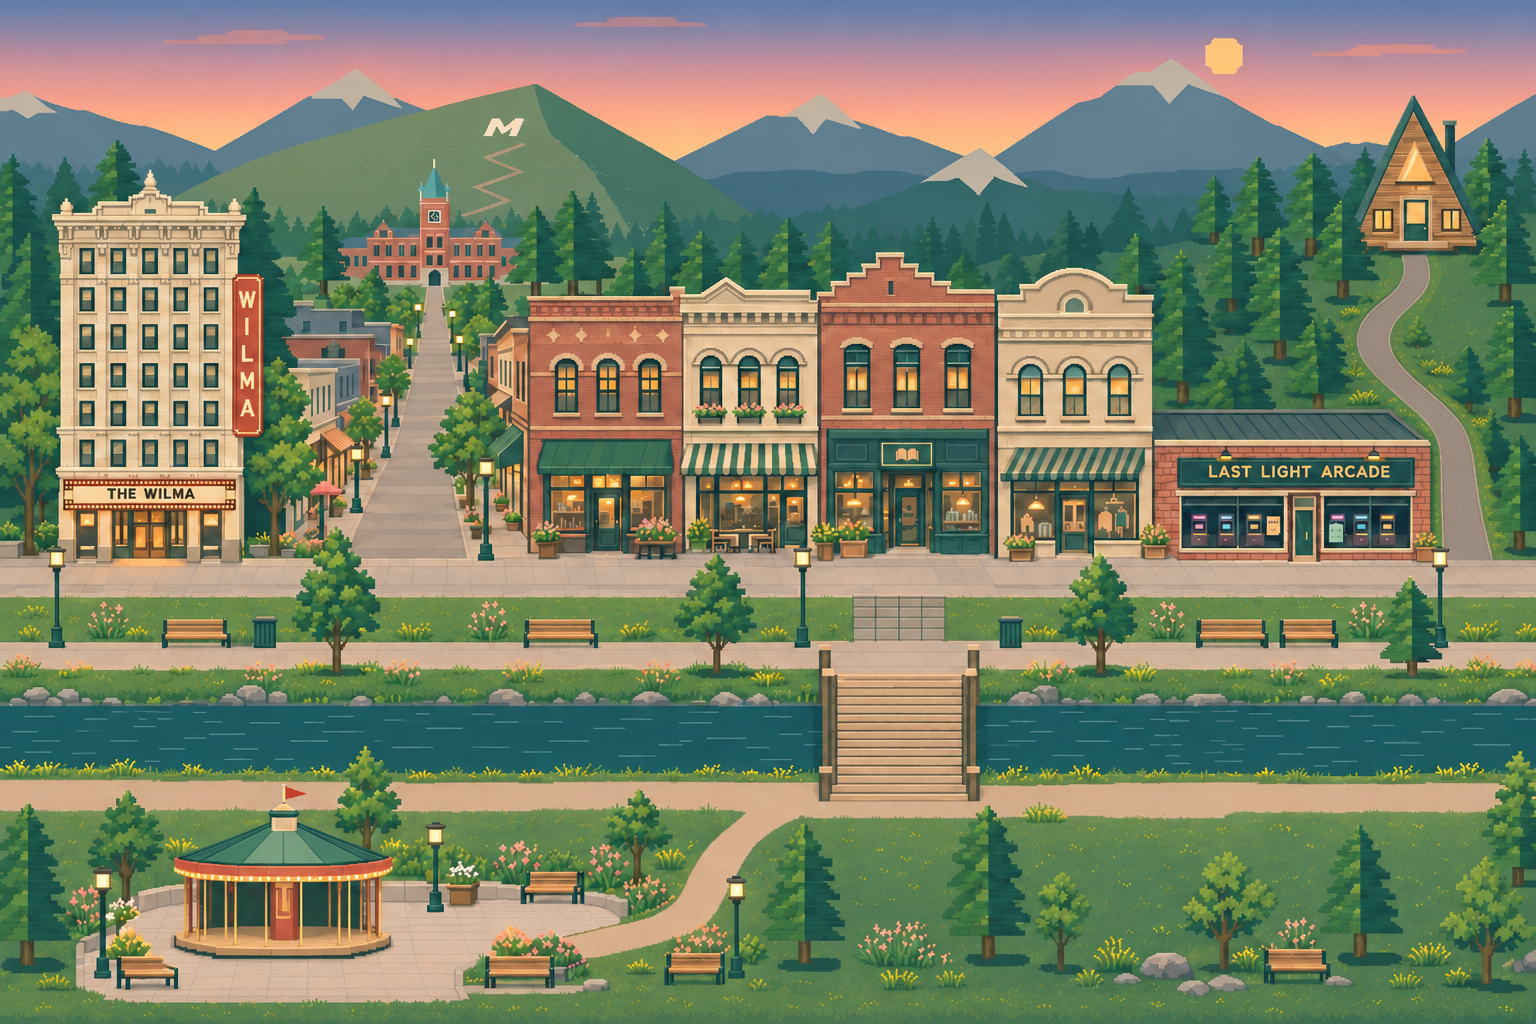
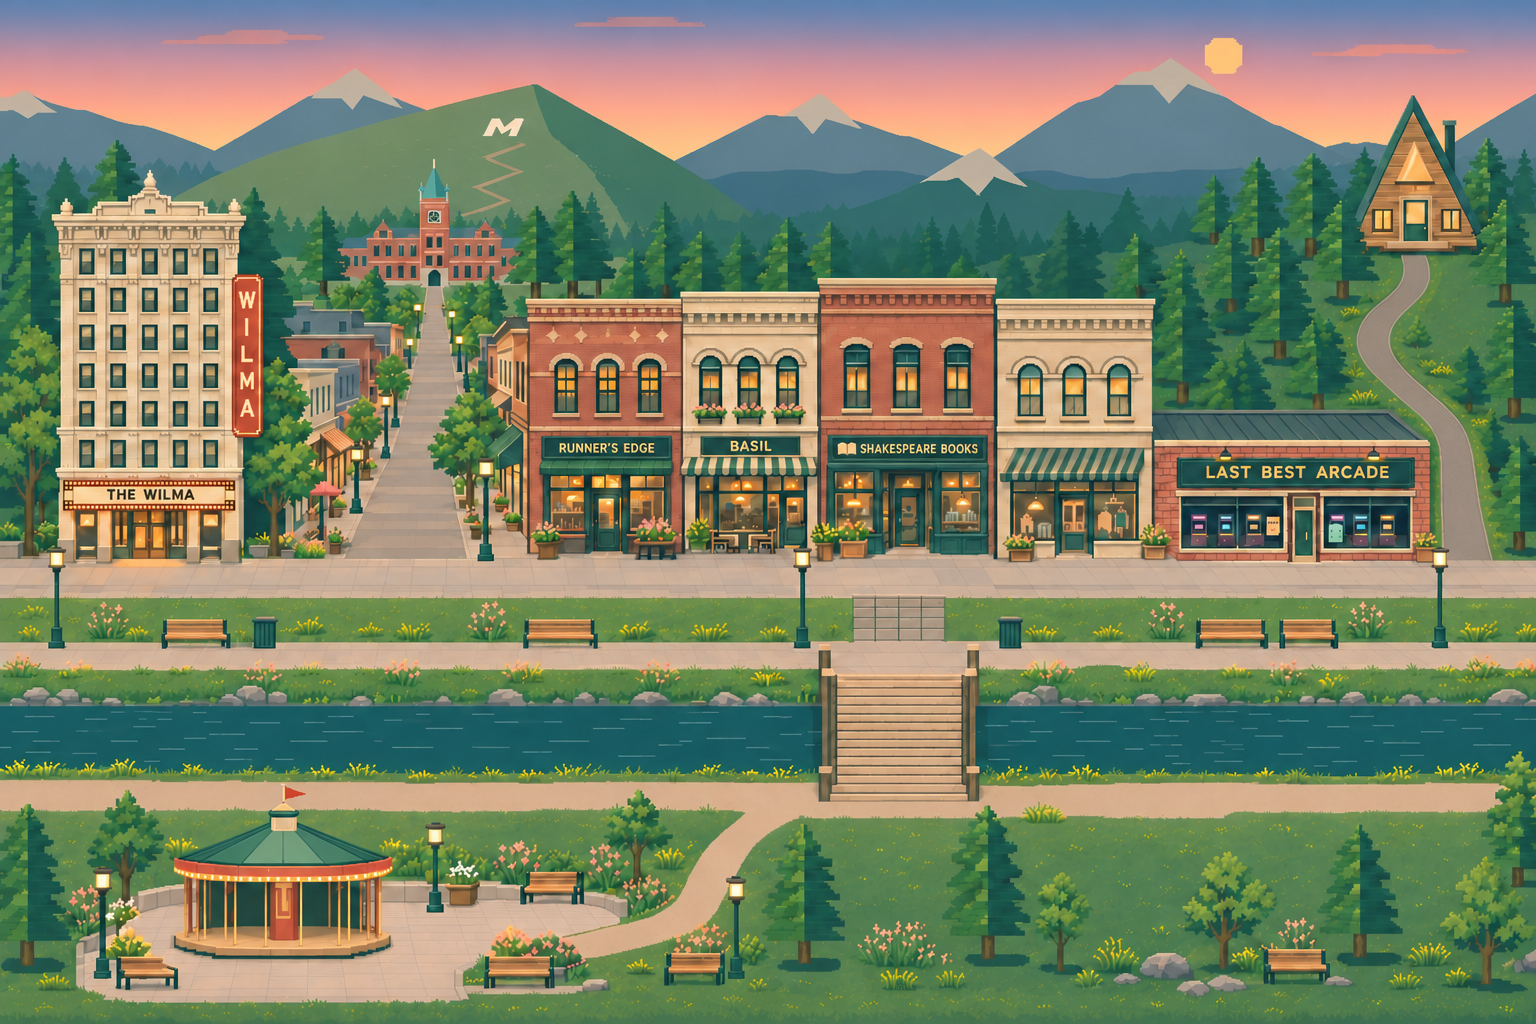
clean up main street

diff --git a/eightbit/portfolio.js b/eightbit/portfolio.js
@@ -13,8 +13,8 @@ normalURL.searchParams.delete('mode'); normalURL.hash = '';
 const root = document.createElement('div'); root.id = 'eightbit';
 root.innerHTML = `
   <a class="skip-link" href="#directory">skip to the projects</a>
-  <header class="game-header"><a class="brand" href="?mode=8bit" aria-label="Last light arcade home"><span class="brand-icon">✦</span><span>LAST LIGHT<small>TAYLOR DORSETT'S LITTLE CORNER OF THE INTERNET</small></span></a><nav aria-label="Quick navigation"><button data-ui="directory">projects <span>08</span></button><button data-ui="map">map <kbd>M</kbd></button><button data-ui="about">about</button><button data-ui="contact">contact</button><button data-ui="sound" aria-pressed="false">sound off</button><a class="normal-site">normal site ↗</a></nav></header>
-  <main class="game-stage" aria-label="Last light arcade">
+  <header class="game-header"><a class="brand" href="?mode=8bit" aria-label="Last best arcade home"><span class="brand-icon">✦</span><span>LAST BEST<small>TAYLOR DORSETT'S LITTLE CORNER OF THE INTERNET</small></span></a><nav aria-label="Quick navigation"><button data-ui="directory">projects <span>08</span></button><button data-ui="map">map <kbd>M</kbd></button><button data-ui="about">about</button><button data-ui="contact">contact</button><button data-ui="sound" aria-pressed="false">sound off</button><a class="normal-site">normal site ↗</a></nav></header>
+  <main class="game-stage" aria-label="Last best arcade">
     <canvas class="world-canvas" tabindex="0" aria-label="Explore the town. Arrow keys or WASD to walk. E or Enter to interact. Click a place to walk there, or use the map and projects menu."></canvas>
     <div class="scene-shade" aria-hidden="true"></div>
     <div class="place-label"><span class="place-dot"></span><div><h1 class="place-name">main street</h1><p class="place-subtitle">missoula, montana · just before sunset</p></div></div>
@@ -30,7 +30,7 @@ root.innerHTML = `
   <dialog class="game-dialog" aria-labelledby="dialog-title"><div class="dialog-top"><span class="dialog-tag"></span><button class="close-dialog" aria-label="Close dialog">✕</button></div><div class="dialog-content"></div></dialog>`;
 root.querySelector('.normal-site').href = normalURL.href;
 document.body.replaceChildren(root); document.documentElement.classList.add('eightbit-mode');
-document.title = 'Last light arcade | Taylor Dorsett';
+document.title = 'Last best arcade | Taylor Dorsett';
 const canvas = root.querySelector('.world-canvas'), dialog = root.querySelector('dialog');
 let postcardPose = 'hello';
 let activeDemo;
@@ -121,7 +121,7 @@ function directory() {
 }
 
 function map() {
-  openDialog('A VERY SMALL TOWN', 'where to?', `<p class="dialog-lead">take a shortcut. there’s no wrong way to explore.</p><div class="map-choices">${[['town','01','main street','the river, the mountains and a little fresh air.'],['arcade','02','last light arcade','eight projects. find your next side quest.'],['cabin','03','home base','a bit about me. meet your companion.']].map(([id,n,title,copy]) => `<button data-room="${id}"><span>${n}</span><strong>${title}</strong><small>${copy}</small><b>${world.id === id ? 'YOU ARE HERE' : 'GO HERE ↗'}</b></button>`).join('')}</div>${progress.pizza === 'delivered' ? '<button class="secondary" data-room="rooftop">the rooftop is open ↑</button>' : '<p class="small-note">there might be a rooftop. ask about the pizza.</p>'}<div class="dialog-actions"><button class="secondary" data-ui="about">about taylor</button><button class="secondary" data-ui="work">work history</button><button class="secondary" data-ui="contact">say hello</button></div>`);
+  openDialog('A VERY SMALL TOWN', 'where to?', `<p class="dialog-lead">take a shortcut. there’s no wrong way to explore.</p><div class="map-choices">${[['town','01','main street','the river, the mountains and a little fresh air.'],['arcade','02','last best arcade','eight projects. find your next side quest.'],['cabin','03','home base','a bit about me. meet your companion.']].map(([id,n,title,copy]) => `<button data-room="${id}"><span>${n}</span><strong>${title}</strong><small>${copy}</small><b>${world.id === id ? 'YOU ARE HERE' : 'GO HERE ↗'}</b></button>`).join('')}</div>${progress.pizza === 'delivered' ? '<button class="secondary" data-room="rooftop">the rooftop is open ↑</button>' : '<p class="small-note">there might be a rooftop. ask about the pizza.</p>'}<div class="dialog-actions"><button class="secondary" data-ui="about">about taylor</button><button class="secondary" data-ui="work">work history</button><button class="secondary" data-ui="contact">say hello</button></div>`);
 }
 
 function choosePet() {
@@ -177,7 +177,7 @@ function photo() {
   if (progress.stamps.length !== 8) {
     openDialog('THE PHOTO BOOTH', 'a little souvenir.', `<p class="dialog-lead">collect all eight project stamps and the photo booth is yours. you’ve found ${progress.stamps.length} so far.</p><button class="primary" data-ui="directory">find the other machines →</button>`); return;
   }
-  openDialog('THANKS FOR STOPPING BY', 'you & your little buddy.', '<p class="dialog-lead">a postcard from last light arcade. a little something to take home.</p><div class="dialog-actions"><button class="secondary" data-pose="hello">hello</button><button class="secondary" data-pose="pizza">pizza break</button><button class="secondary" data-pose="view">mountain view</button></div><div class="postcard-preview"></div><button class="primary" data-ui="download">save your postcard ↓</button>');
+  openDialog('THANKS FOR STOPPING BY', 'you & your little buddy.', '<p class="dialog-lead">a postcard from last best arcade. a little something to take home.</p><div class="dialog-actions"><button class="secondary" data-pose="hello">hello</button><button class="secondary" data-pose="pizza">pizza break</button><button class="secondary" data-pose="view">mountain view</button></div><div class="postcard-preview"></div><button class="primary" data-ui="download">save your postcard ↓</button>');
   const postcard = world.postcard(postcardPose); postcard.setAttribute('role', 'img'); postcard.setAttribute('aria-label', 'Taylor and your pet on the rooftop, with the mountains behind them'); root.querySelector('.postcard-preview').append(postcard);
 }
 

diff --git a/eightbit/scenes.js b/eightbit/scenes.js
@@ -9,7 +9,7 @@ export const scenes = {
     points: [
       point('carousel', 'the carousel', 424, 944, 'carousel', { hit: [172,812,222,145] }),
       point('wilma', 'outside the Wilma', 144, 576, 'wilma', { hit: [52,174,211,386] }),
-      point('arcade', 'enter the arcade', 1304, 576, 'room:arcade', { sign: 'LAST LIGHT ARCADE', hint: 'eight projects. one room.', hit: [1154,410,280,150] }),
+      point('arcade', 'enter the arcade', 1304, 576, 'room:arcade', { sign: 'LAST BEST ARCADE', hint: 'eight projects. one room.', hit: [1154,410,280,150] }),
       point('cabin', 'visit the cabin', 1416, 264, 'room:cabin', { sign: 'HOME BASE', hit: [1356,92,122,162] }),
       point('mailbox', 'say hello', 1008, 656, 'contact', { hit: [998,612,28,34] }),
       point('bench', 'talk to the neighbor', 560, 656, 'delivery', { hit: [520,605,80,42] }),
@@ -19,7 +19,7 @@ export const scenes = {
     ],
   },
   arcade: {
-    name: 'last light arcade', subtitle: 'quarters in. real world out.', width: 1024, height: 832,
+    name: 'last best arcade', subtitle: 'quarters in. real world out.', width: 1024, height: 832,
     spawn: { x: 512, y: 736 }, bounds: [176, 336, 848, 784],
     obstacles: [[216, 344, 96, 128], [376, 344, 96, 128], [536, 344, 96, 128], [696, 344, 96, 128], [216, 520, 96, 128], [352, 584, 128, 64], [536, 520, 96, 128], [696, 520, 96, 128], [184, 704, 80, 64], [320, 704, 48, 48], [776, 704, 72, 64]],
     points: [
@@ -77,7 +77,9 @@ export function findPath(scene, from, to) {
     }
     for (const [dx, dy] of [[0, -1], [1, 0], [0, 1], [-1, 0]]) {
       const next = [current[0] + dx, current[1] + dy];
-      if (!parents.has(key(next)) && isWalkable(scene, next[0] * cell, next[1] * cell)) { parents.set(key(next), current); queue.push(next); }
+      const clear = [0, .25, .5, .75, 1].every(t => isWalkable(scene,
+        (current[0] + dx * t) * cell, (current[1] + dy * t) * cell));
+      if (!parents.has(key(next)) && clear) { parents.set(key(next), current); queue.push(next); }
     }
   }
   return [];

diff --git a/eightbit/town-view.js b/eightbit/town-view.js
@@ -1,12 +1,14 @@
 import { box, polygon, person, pet, text, glow } from './art.js';
 import { daylight, paintSky } from './daylight.js';
 import { drawResident } from './residents.js';
-import { trailActors } from './trail-visitors.js';
+import { trailActors, trailVisitors } from './trail-visitors.js';
 import { drawBike } from './bikes.js';
 import { horse, carouselHorses } from './carousel.js';
 import { campusActors, campusScale } from './campus-life.js';
 import { scoutActors } from './scout.js';
 import { grazer } from './wildlife.js';
+import { riverTree } from './town-trees.js';
+import { riverTrees, treeOpacity } from './depth.js';
 import { townLayout } from './town-layout.js';
 
 let painting;
@@ -98,6 +100,11 @@ export function drawTown(world,time) {
   for(const resident of world.residents.filter(r=>r.room==='town'&&!r.hidden&&!r.home)) actors.push({y:resident.y,draw:()=>drawResident(ctx,resident,moment,reduced)});
   actors.push({y:companion.y,draw:()=>pet(ctx,companion.x,companion.y,progress.pet,reduced?0:moment,false,.75*campusScale(companion.x,companion.y),companion.direction)});
   actors.push({y:player.y,draw:()=>person(ctx,player.x,player.y,world.direction,world.walking&&!reduced,moment,progress.pizza==='carrying',.9*campusScale(player.x,player.y))});
+  const visible = [player, companion, ...trailVisitors(moment, reduced, townLayout), ...world.residents.filter(r => r.room === 'town' && !r.home)];
+  for (const [x, y, size] of riverTrees) actors.push({ y, draw: () => {
+    ctx.save(); ctx.globalAlpha = treeOpacity([x, y, size], visible);
+    riverTree(ctx, x, y, size, x === 1490); ctx.restore();
+  }});
   actors.sort((a,b)=>a.y-b.y).forEach(a=>a.draw());
   if(progress.pizza==='delivered') { box(ctx,543,623,24,5,'#e9ba79');text(ctx,'THANKS!',552,592,8,'#f1d8a7'); }
   if(world.target&&world.path.length) {const {x,y}=world.target;box(ctx,x-5,y,10,2,'#efdbab');box(ctx,x,y-5,2,10,'#efdbab');}

diff --git a/eightbit/town-trees.js b/eightbit/town-trees.js
@@ -1,0 +1,22 @@
+import { box, polygon, tree } from './art.js';
+
+export function riverTree(ctx, x, y, size, pine) {
+  if (pine) { tree(ctx, x, y, size); return; }
+  ctx.save(); ctx.translate(x, y); ctx.scale(size, size);
+  box(ctx, -17, 0, 38, 4, '#48604a');
+  box(ctx, -3, -45, 6, 47, '#635941');
+  box(ctx, -1, -43, 2, 45, '#988064');
+  polygon(ctx, [[0,-22],[-20,-43],[-18,-47],[2,-29],[18,-53],[21,-49],[2,-19]], '#635941');
+  const clumps = [[-18,-42,14], [12,-45,16],[-27,-57,12],[26,-60,11],[-10,-59,18],
+    [9,-68,17],[-20,-76,11],[24,-78,10],[-5,-84,15],[8,-94,10],[-8,-71,15],[13,-55,12]];
+  for (let i = 0; i < clumps.length; i++) {
+    const [cx,cy,r] = clumps[i];
+    const dark = i % 2 ? '#426c49' : '#3c6449';
+    box(ctx,cx-r,cy-r/2,r*2,r,dark); box(ctx,cx-r/2,cy-r,r,r*2,dark);
+    box(ctx,cx-r+2,cy-r/2-3,r+5,r,'#5c814d');
+    box(ctx,cx-r/2,cy-r+2,r,8,'#77954f');
+    box(ctx,cx-r/2-3,cy-r/2,7,6,'#94a65a');
+    box(ctx,cx+3,cy+4,6,7,'#52764a');
+  }
+  ctx.restore();
+}

diff --git a/eightbit/world.js b/eightbit/world.js
@@ -239,7 +239,7 @@ export class World {
     person(ctx, 364, 440, pose === 'view' ? 'up' : 'down', pose === 'dance', 120, pose === 'pizza'); pet(ctx, 410, 440, this.progress.pet, 0, false, 1.4, pose === 'view' ? 'up' : 'down', true);
     box(ctx, 150, 544, 468, 40, '#3e6057');
     text(ctx, pose === 'pizza' ? 'PIZZA BREAK' : pose === 'view' ? 'MOUNTAIN TIME' : 'HELLO FROM MISSOULA', 384, 565, 13, '#e5d7b0');
-    text(ctx, 'LAST LIGHT', 864, 91, 23, '#3d5c56'); text(ctx, 'ARCADE', 864, 123, 23, '#3d5c56');
+    text(ctx, 'LAST BEST', 864, 91, 23, '#3d5c56'); text(ctx, 'ARCADE', 864, 123, 23, '#3d5c56');
     text(ctx, 'a little visit', 864, 212, 13, '#5c7262'); text(ctx, 'to missoula.', 864, 233, 13, '#5c7262');
     text(ctx, 'taylor dorsett', 864, 508, 13, '#5c7262'); text(ctx, 'taylordorsett.com', 864, 531, 11, '#5c7262');
     text(ctx, 'THANKS FOR STOPPING BY ♥', 384, 618, 16, '#3d5c56'); return image;

diff --git a/eightbit/arcade-art.js b/eightbit/arcade-art.js
@@ -96,7 +96,7 @@ export function cyberArcade(ctx) {
   for(const x of [192,832]) { box(ctx,x,130,3,47,'#55505b'); box(ctx,x-34,177,72,9,'#33303b'); box(ctx,x-29,185,62,3,'#f7a864'); light(ctx,x,210,'#ff963b',100,.13); }
   // A large neon wordmark, a score board and old tournament flyers anchor the room.
   ctx.save(); ctx.shadowColor='#e647a0'; ctx.shadowBlur=14;
-  text(ctx,'LAST LIGHT',512,172,36,'#ff6eb6'); ctx.restore();
+  text(ctx,'LAST BEST',512,172,36,'#ff6eb6'); ctx.restore();
   text(ctx,'A R C A D E',512,201,15,'#65e4e4');
   box(ctx,381,226,262,2,'#82335f'); text(ctx,'QUARTERS IN. REAL WORLD OUT.',512,218,7,'#9c8ba7');
   box(ctx,111,202,132,45,'#060a10'); text(ctx,'HIGH SCORES',177,212,9,'#e9a757');

diff --git a/eightbit/daylight.js b/eightbit/daylight.js
@@ -74,7 +74,7 @@ export function outdoorLight(ctx, room, width, height, light) {
   polygon(ctx,[[495,432],[529,432],[555,493],[469,493]],'#f4c488');
   for(const [x,w] of [[341,137],[546,121]]) polygon(ctx,[[x,432],[x+w,432],[x+w+12,464],[x-12,464]],'#dfb87c');
   ctx.restore();
-  text(ctx,'LAST LIGHT ARCADE',512,285,18,'#f0dcb0');
+  text(ctx,'LAST BEST ARCADE',512,285,18,'#f0dcb0');
   // The cabin windows stay warm while the surrounding hill settles into night.
   glow(ctx,875,221,'#f1b46e',48,.07);
   ctx.save(); ctx.translate(800,112); ctx.scale(.85,.85);

diff --git a/eightbit/depth.js b/eightbit/depth.js
@@ -6,7 +6,7 @@ export const foreground = {
 };
 
 // River trees are drawn on their own layer, never as opaque background cutouts.
-export const riverTrees = [[48, 597, 1], [342, 602, .9], [640, 602, .8], [934, 607, 1.1]];
+export const riverTrees = [[336, 674, 1.25], [720, 674, 1.2], [1101, 674, 1.2], [1490, 674, 1.2]];
 export function treeOpacity([x, y, size], actors) {
   return actors.some(actor => !actor.hidden && actor.x + 17 > x - 27 * size && actor.x - 17 < x + 32 * size && actor.y < y && actor.y > y - 94 * size) ? .28 : 1;
 }

diff --git a/eightbit/storefront.js b/eightbit/storefront.js
@@ -53,7 +53,7 @@ export function arcadeStorefront(ctx) {
   box(ctx, 357, 266, 310, 39, '#634c3e');
   box(ctx, 359, 268, 306, 33, '#263e3c');
   box(ctx, 361, 270, 302, 2, '#64786a');
-  text(ctx, 'LAST LIGHT ARCADE', 512, 285, 18, '#e4d1a4');
+  text(ctx, 'LAST BEST ARCADE', 512, 285, 18, '#e4d1a4');
   for (const x of [395, 625]) {
     box(ctx, x - 1, 257, 3, 9, '#343e36');
     polygon(ctx, [[x-7,266],[x-3,262],[x+4,262],[x+8,266]], '#35483f');
